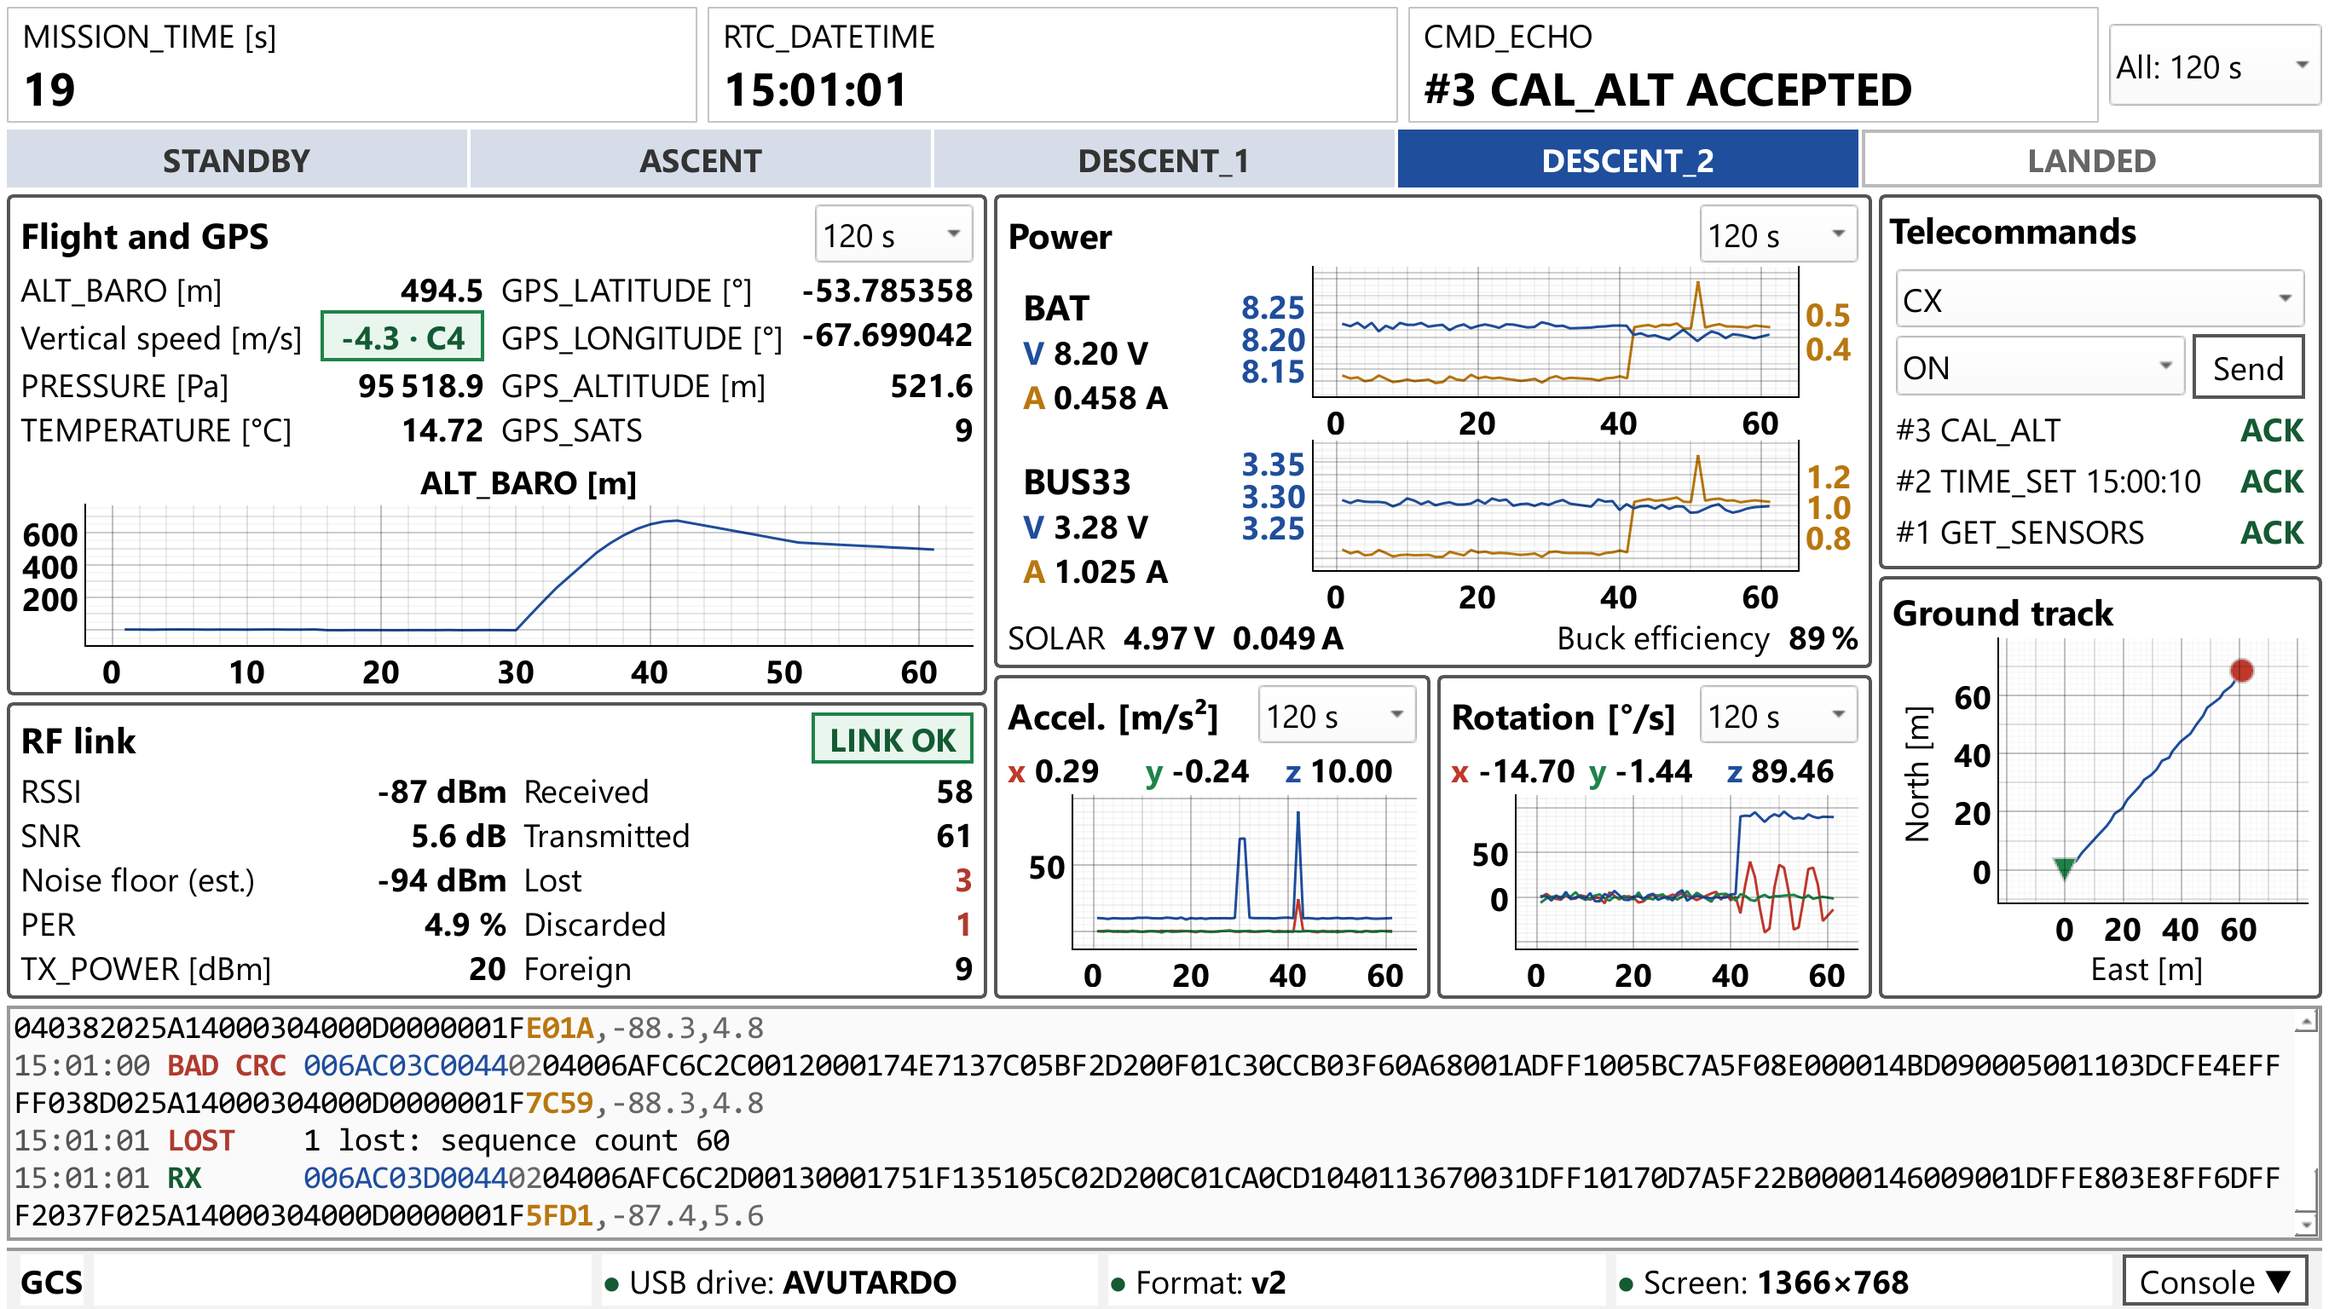
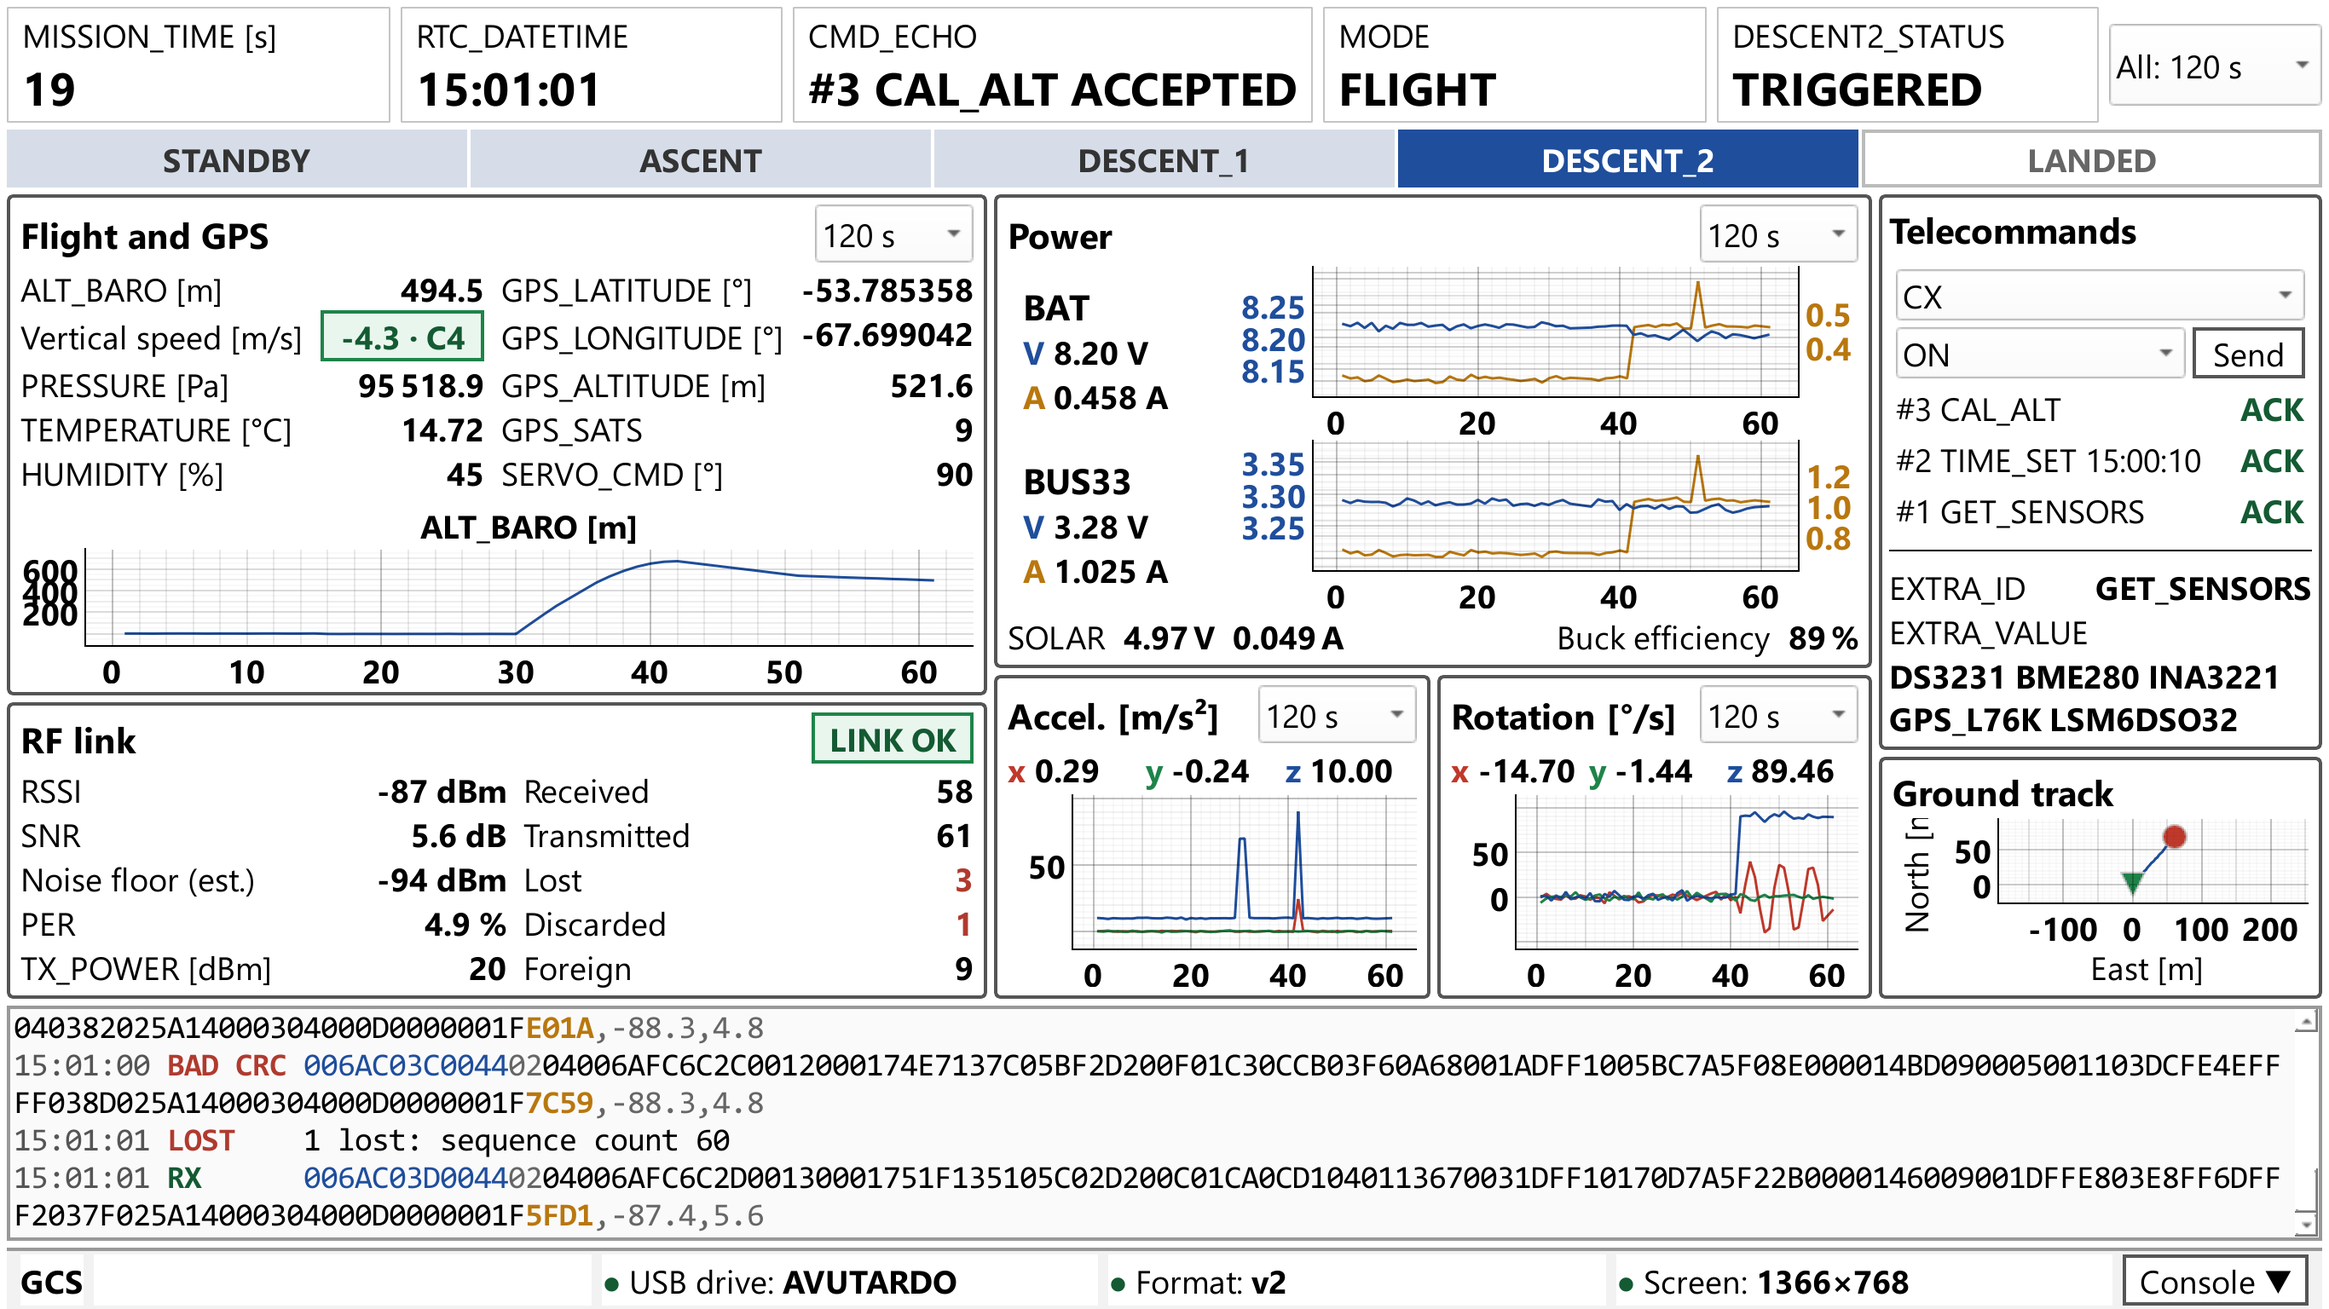
Ronda 8: los seis campos que faltaban, M4 elegida, y capturas de la diap. 77 (#51)
Cuatro variantes sobre K6 para MODE, HUMIDITY, DESCENT2_STATUS, SERVO_CMD,
EXTRA_ID y EXTRA_VALUE. M4 queda por defecto, también para --captura, y
las diap77-* se regeneran con ella.

diff --git a/gcs/prototipos/pantalla.py b/gcs/prototipos/pantalla.py
@@ -77,6 +77,28 @@ definido). A 14 pt cada paquete ocupa dos líneas.
     la consola abierta, los gráficos bajan su mínimo de 140 a 100 px: si no,
     la ventana pide 790 px de alto.
 
+Ronda 8 (#51): dónde van los seis campos de la v2 que no estaban en pantalla
+(MODE, HUMIDITY, DESCENT2_STATUS, SERVO_CMD, EXTRA_ID y EXTRA_VALUE), sobre K6.
+MODE fuera de FLIGHT sale en ámbar; EXTRA_VALUE se lee según la `forma` de la
+respuesta en telecomandos.toml. En `bits`, todos los nombres, con los que están
+en 0 tachados: en rojo en GET_SENSORS (un sensor que no responde es una falla)
+y en gris en las demás (FALLA_SI_CERO).
+
+    M1  Por especie       MODE en la franja; HUMIDITY, DESCENT2_STATUS y
+                          SERVO_CMD en Vuelo y GPS; el par extra bajo los ecos
+    M2  Barra de fases    MODE a la izquierda de las fases, el segundo descenso
+                          a la derecha; HUMIDITY en Vuelo y GPS; el par extra en
+                          la franja, al lado de CMD_ECHO
+    M3  Tarjeta Status    MODE, el segundo descenso y el par extra en una
+                          tarjeta entre Vuelo y GPS y el enlace
+    M4  M1 + M2           MODE y DESCENT2_STATUS en la franja, después de
+                          CMD_ECHO; el par extra bajo los ecos, como en M1;
+                          HUMIDITY y SERVO_CMD en una fila de Vuelo y GPS
+
+    Elegida: M4 (2026-11-16). Entra en 768 px con la consola abierta (765) y
+    el QR de LANDED queda entero. M1 pedía 784 px con la consola; M3 aplastaba
+    el gráfico de altitud y pedía 882.
+
 Telecomandos (#21), en las variantes de las rondas 6 y 7: un combobox con los
 19 de `telecomandos.toml` y, al lado, el parámetro que pide cada uno (lista de
 valores, número con su unidad y el rango del .toml, o nada; TIME_SET toma la
@@ -92,7 +114,7 @@ demás quedan NO ACK hasta que CX ON vuelve con ACK.
 
 Correr, desde `gcs/`:
 
-    uv run python prototipos/pantalla.py        # arranca en G2B, la elegida
+    uv run python prototipos/pantalla.py        # arranca en M4, la elegida
     uv run python prototipos/pantalla.py A      # arranca en A
     uv run python prototipos/pantalla.py G2A    # la ronda 5 (#23)
     uv run python prototipos/pantalla.py L1     # la ronda 6 (#24)
@@ -128,7 +150,7 @@ corrida, con los instantes `standby`, `descenso` y `aterrizado`.
 
     uv run python prototipos/pantalla.py --simular demo --hasta descenso
     uv run --with segno python prototipos/pantalla.py --captura salida.png --hasta aterrizado
-    uv run python prototipos/pantalla.py K6 --captura salida.png --hasta consola
+    uv run python prototipos/pantalla.py --captura salida.png --hasta consola
 
 --captura corre fuera de pantalla (1366×768 lógicos con escala 2, según
 `pantalla-captura.json`), graba el PNG a 2732×1536 y sale; en `standby` graba
@@ -2838,6 +2860,264 @@ class VarianteK6F(VarianteConsola):
     boton_en = "franja"
 
 
+# --- ronda 8 (#51): los seis campos de la v2 que faltaban -----------------
+
+ROJO = "#b03a2e"
+GRIS = "#888"
+# Las consultas de bits donde un 0 es una falla. No está en telecomandos.toml,
+# que sólo dice «1 = sí»: es presentación de la GCS. En GET_SENSORS un 0 es un
+# sensor que no responde; en CAM_STATUS un 0 puede ser lo normal (la cámara
+# todavía no graba). Una consulta de bits nueva no entra sola: hay que sumarla.
+FALLA_SI_CERO = {"GET_SENSORS"}
+
+
+def texto_extra(datos: dict) -> tuple[str, str]:
+    """(EXTRA_ID, EXTRA_VALUE en HTML). El valor se lee según la `forma` de la
+    respuesta en telecomandos.toml: en `bits`, todos los nombres (bit 0 = el
+    primero), con los que están en 0 tachados; en rojo si son una falla
+    (FALLA_SI_CERO) y en gris si no."""
+    ident = datos.get("extra_id") or ""
+    if not ident:
+        return "—", "—"
+    resp = COMANDOS.get(ident, {}).get("respuesta", {})
+    v = datos["extra_valor"]
+    forma = resp.get("forma")
+    if forma == "bits":
+        partes = []
+        color = ROJO if ident in FALLA_SI_CERO else GRIS
+        for i, b in enumerate(resp["bits"]):
+            nombre = b.upper()
+            partes.append(nombre if v >> i & 1 else f"<s style='color:{color}'>{nombre}</s>")
+        return ident, " ".join(partes)
+    if forma == "valores":
+        vals = resp["valores"]
+        return ident, vals[v] if 0 <= v < len(vals) else str(v)
+    if forma == "mitades":
+        a, b = resp["alto"], resp["bajo"]
+        alto, bajo = (v >> 16) & 0xFFFF, v & 0xFFFF
+        return ident, (
+            f"{alto / a['divisor']:.3f} {a['unidad']} · {bajo / b['divisor']:.3f} {b['unidad']}"
+        )
+    unidad = resp.get("unidad", "")
+    return ident, agrupar(str(v)) + (f" {unidad}" if unidad else "")
+
+
+def estilo_modo(modo: str) -> str:
+    """MODE fuera de FLIGHT se tiene que ver de lejos: en ámbar. Fondo y color
+    sin borde: el borde de NIVEL le suma 4 px de alto a la franja, y la ventana
+    se pasa de 768 con la consola abierta."""
+    if modo in ("FLIGHT", ""):
+        return ""
+    return "background: #fdf2e0; color: #8a5a0b; padding: 0px 6px;"
+
+
+def sumar_filas(tarjeta: TarjetaH, filas: list[tuple[int, int, str]]) -> None:
+    """Agrega pares rótulo-valor a la grilla de una tarjeta: (fila, columna de
+    pares, campo). La tarjeta los refresca sola, como los suyos."""
+    grilla = tarjeta.layout().itemAt(1).layout()
+    for f, c, nombre in filas:
+        rotulo = label(con_unidad(nombre))
+        grilla.addWidget(rotulo, f, 2 * c)
+        val = label("—", negrita=True, alinear=Qt.AlignmentFlag.AlignRight)
+        tarjeta.valores[nombre] = val
+        grilla.addWidget(val, f, 2 * c + 1)
+
+
+class BloqueExtra(QWidget):
+    """El par extra en dos filas: EXTRA_ID con su valor, y EXTRA_VALUE con la
+    respuesta debajo, en varias líneas si no entra."""
+
+    def __init__(self) -> None:
+        super().__init__()
+        g = QGridLayout(self)
+        g.setContentsMargins(0, 0, 0, 0)
+        g.setHorizontalSpacing(8)
+        g.setVerticalSpacing(0)
+        g.addWidget(label(con_unidad("extra_id")), 0, 0)
+        self.ident = label("—", negrita=True, alinear=Qt.AlignmentFlag.AlignRight)
+        g.addWidget(self.ident, 0, 1)
+        g.addWidget(label(con_unidad("extra_valor")), 1, 0, 1, 2)
+        self.valor = label("—", negrita=True)
+        self.valor.setWordWrap(True)
+        g.addWidget(self.valor, 2, 0, 1, 2)
+
+    def actualizar(self, datos: dict) -> None:
+        ident, valor = texto_extra(datos)
+        self.ident.setText(ident)
+        self.valor.setText(valor)
+
+
+class VarianteM1(VarianteK6):
+    """Cada campo con los de su especie: MODE en la franja, junto a los tiempos;
+    HUMIDITY, DESCENT2_STATUS y SERVO_CMD en Vuelo y GPS; el par extra bajo los
+    ecos de los telecomandos, que es donde se pidió."""
+
+    nombre = "Round 8 (#51): each field with its kind"
+
+    def __init__(self, sim: Simulador) -> None:
+        super().__init__(sim)
+        caja, self.modo = indicador(con_unidad("modo"))
+        self.franja.layout().insertWidget(2, caja, 1)  # después de RTC_DATETIME
+        sumar_filas(
+            self.t["vuelo"],
+            [(4, 0, "humedad"), (5, 0, "estado_descenso2"), (5, 1, "servo")],
+        )
+        self.extra = BloqueExtra()
+        linea = QFrame()
+        linea.setFrameShape(QFrame.Shape.HLine)
+        cv = self.caja_comandos.layout()
+        cv.addWidget(linea)
+        cv.addWidget(self.extra)
+
+    def actualizar(self) -> None:
+        super().actualizar()
+        d = self.sim.ultimo
+        if not d:
+            return
+        self.modo.setText(d["modo"])
+        self.modo.setStyleSheet(estilo_modo(d["modo"]))
+        self.extra.actualizar(d)
+
+
+class VarianteM2(VarianteK6):
+    """Lo que dice en qué anda el CanSat, alrededor de la barra de fases: MODE a
+    la izquierda, el segundo descenso a la derecha. HUMIDITY en Vuelo y GPS y el
+    par extra en la franja, al lado del eco del que es respuesta."""
+
+    nombre = "Round 8 (#51): around the phase bar"
+
+    def __init__(self, sim: Simulador) -> None:
+        super().__init__(sim)
+        fases = self.layout().itemAt(1).layout()
+        self.modo = label("", alinear=Qt.AlignmentFlag.AlignCenter)
+        fases.insertWidget(0, self.modo)
+        self.descenso = label("", alinear=Qt.AlignmentFlag.AlignCenter)
+        fases.addWidget(self.descenso)
+        sumar_filas(self.t["vuelo"], [(4, 0, "humedad")])
+        # El par extra, una caja más de la franja: rótulo arriba y respuesta abajo.
+        caja = QFrame()
+        caja.setFrameShape(QFrame.Shape.StyledPanel)
+        v = QVBoxLayout(caja)
+        v.setContentsMargins(8, 2, 8, 2)
+        v.setSpacing(0)
+        self.extra_id = label("")
+        self.extra = label("—", negrita=True)
+        self.extra.setWordWrap(True)
+        v.addWidget(self.extra_id)
+        v.addWidget(self.extra)
+        fila = self.franja.layout()
+        fila.insertWidget(3, caja, 3)  # después de CMD_ECHO
+        for i, estirar in enumerate([1, 1, 2]):  # MISSION_TIME, RTC, CMD_ECHO
+            fila.setStretch(i, estirar)
+        self.poner_textos({})
+
+    def poner_textos(self, d: dict) -> None:
+        modo = d.get("modo", "—")
+        self.modo.setText(f"{con_unidad('modo')} <b>{modo}</b>")
+        self.modo.setStyleSheet(
+            (estilo_modo(modo) or "border: 2px solid #bbb;") + "padding: 2px 8px;"
+        )
+        estado, servo = d.get("estado_descenso2", "—"), d.get("servo")
+        self.descenso.setText(
+            f"{con_unidad('estado_descenso2')} <b>{estado}</b>"
+            f" · {con_unidad('servo')} <b>{fmt('servo', servo) if servo is not None else '—'}</b>"
+        )
+        self.descenso.setStyleSheet("border: 2px solid #bbb; padding: 2px 8px;")
+        ident, valor = texto_extra(d) if d else ("—", "—")
+        self.extra_id.setText(f"{con_unidad('extra_id')} {ident} · {con_unidad('extra_valor')}")
+        self.extra.setText(valor)
+
+    def actualizar(self) -> None:
+        super().actualizar()
+        if self.sim.ultimo:
+            self.poner_textos(self.sim.ultimo)
+
+
+class VarianteM3(VarianteK6):
+    """Una tarjeta propia, Status, entre Vuelo y GPS y el enlace: MODE, el
+    segundo descenso y el par extra juntos. HUMIDITY en Vuelo y GPS."""
+
+    nombre = "Round 8 (#51): own Status card"
+
+    def ubicar(self, g: QGridLayout, columna: QVBoxLayout) -> None:
+        super().ubicar(g, columna)
+        sumar_filas(self.t["vuelo"], [(4, 0, "humedad")])
+        tarjeta = QFrame()
+        tarjeta.setObjectName("tarjeta")
+        tarjeta.setStyleSheet("#tarjeta { border: 2px solid #555; border-radius: 4px; }")
+        tarjeta.setSizePolicy(QSizePolicy.Policy.Preferred, QSizePolicy.Policy.Maximum)
+        v = QVBoxLayout(tarjeta)
+        v.setContentsMargins(6, 4, 6, 4)
+        v.setSpacing(2)
+        v.addWidget(label("Status", negrita=True, pt=PT + 2))
+        grilla = QGridLayout()
+        grilla.setHorizontalSpacing(10)
+        grilla.setVerticalSpacing(0)
+        self.valores_estado: dict[str, QLabel] = {}
+        for f, c, nombre in [
+            (0, 0, "modo"),
+            (0, 1, "estado_descenso2"),
+            (1, 0, "extra_id"),
+            (1, 1, "servo"),
+        ]:
+            grilla.addWidget(label(con_unidad(nombre)), f, 2 * c)
+            val = label("—", negrita=True, alinear=Qt.AlignmentFlag.AlignRight)
+            self.valores_estado[nombre] = val
+            grilla.addWidget(val, f, 2 * c + 1)
+        grilla.addWidget(label(con_unidad("extra_valor")), 2, 0)
+        self.extra = label("—", negrita=True)
+        self.extra.setWordWrap(True)
+        grilla.addWidget(self.extra, 2, 1, 1, 3)
+        v.addLayout(grilla)
+        izq = g.itemAtPosition(0, 0).layout()  # Vuelo y GPS, y el enlace
+        izq.insertWidget(1, tarjeta)
+
+    def actualizar(self) -> None:
+        super().actualizar()
+        d = self.sim.ultimo
+        if not d:
+            return
+        ident, valor = texto_extra(d)
+        for nombre, val in self.valores_estado.items():
+            val.setText(ident if nombre == "extra_id" else fmt(nombre, d[nombre]))
+        self.valores_estado["modo"].setStyleSheet(estilo_modo(d["modo"]))
+        self.extra.setText(valor)
+
+
+class VarianteM4(VarianteK6):
+    """La elegida, M1 + M2: MODE y DESCENT2_STATUS en la franja, después de
+    CMD_ECHO (donde M2 tenía el par extra); el par extra bajo los ecos de los
+    telecomandos, como en M1; HUMIDITY y SERVO_CMD en una fila de Vuelo y GPS."""
+
+    nombre = "Round 8 (#51): status in the top strip, extra under telecommands"
+
+    def __init__(self, sim: Simulador) -> None:
+        super().__init__(sim)
+        fila = self.franja.layout()
+        self.estado: dict[str, QLabel] = {}
+        for i, nombre in enumerate(["modo", "estado_descenso2"]):
+            caja, valor = indicador(con_unidad(nombre))
+            self.estado[nombre] = valor
+            fila.insertWidget(3 + i, caja, 1)  # después de CMD_ECHO
+        sumar_filas(self.t["vuelo"], [(4, 0, "humedad"), (4, 1, "servo")])
+        self.extra = BloqueExtra()
+        linea = QFrame()
+        linea.setFrameShape(QFrame.Shape.HLine)
+        cv = self.caja_comandos.layout()
+        cv.addWidget(linea)
+        cv.addWidget(self.extra)
+
+    def actualizar(self) -> None:
+        super().actualizar()
+        d = self.sim.ultimo
+        if not d:
+            return
+        for nombre, val in self.estado.items():
+            val.setText(fmt(nombre, d[nombre]))
+        self.estado["modo"].setStyleSheet(estilo_modo(d["modo"]))
+        self.extra.actualizar(d)
+
+
 # --- ventana y selector de variante ---------------------------------------
 
 VARIANTES = {
@@ -2859,6 +3139,10 @@ VARIANTES = {
     "K3": VarianteK3,
     "K6": VarianteK6,
     "K6F": VarianteK6F,
+    "M1": VarianteM1,
+    "M2": VarianteM2,
+    "M3": VarianteM3,
+    "M4": VarianteM4,
 }
 
 
@@ -3144,7 +3428,7 @@ def capturar_demo(app: QApplication, v: Ventana, instante: str, destino: Path) -
     v.show()
     if instante == "consola":
         if not isinstance(v.vista, VarianteConsola):
-            sys.exit("--hasta consola needs a console variant (K3, K6 or K6F)")
+            sys.exit("--hasta consola needs a console variant (K3, K6, K6F or M1 to M4)")
         v.vista.boton.setChecked(True)
     app.processEvents()
     avanzar(v, instante)
@@ -3180,7 +3464,7 @@ def capturar_demo(app: QApplication, v: Ventana, instante: str, destino: Path) -
 
 def argumentos() -> argparse.Namespace:
     a = argparse.ArgumentParser(description="Avutardo GCS screen prototype (simulated data).")
-    a.add_argument("variante", nargs="?", default=None, help="layout variant (default: G2B)")
+    a.add_argument("variante", nargs="?", default=None, help="layout variant (default: M4)")
     a.add_argument("--simular", choices=["demo"], help="run the fixed demo flight")
     a.add_argument("--hasta", choices=INSTANTES, help="advance the demo flight to this instant")
     a.add_argument(
@@ -3202,9 +3486,7 @@ def main() -> None:
     args = argumentos()
     if args.captura:
         preparar_captura()
-    por_defecto = "L3" if args.captura else "G2B"
-    if args.hasta == "consola":
-        por_defecto = "K6"
+    por_defecto = "M4"  # la elegida (#51); con la consola de K6
     inicial = (args.variante or por_defecto).upper()
     app = QApplication(sys.argv[:1])
     f = app.font()
